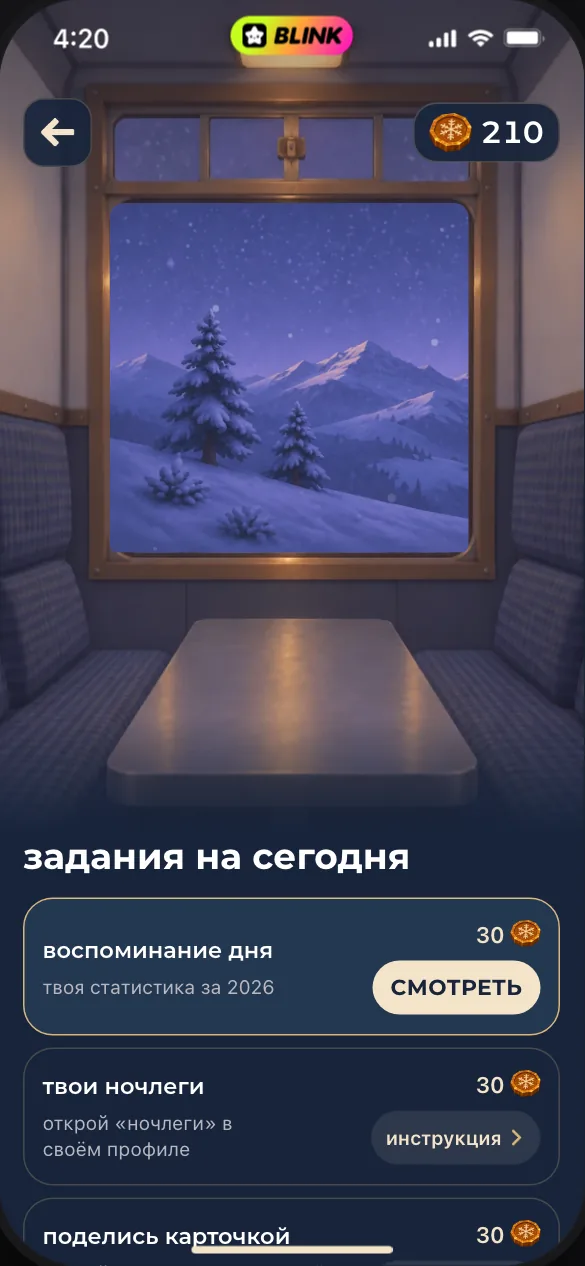
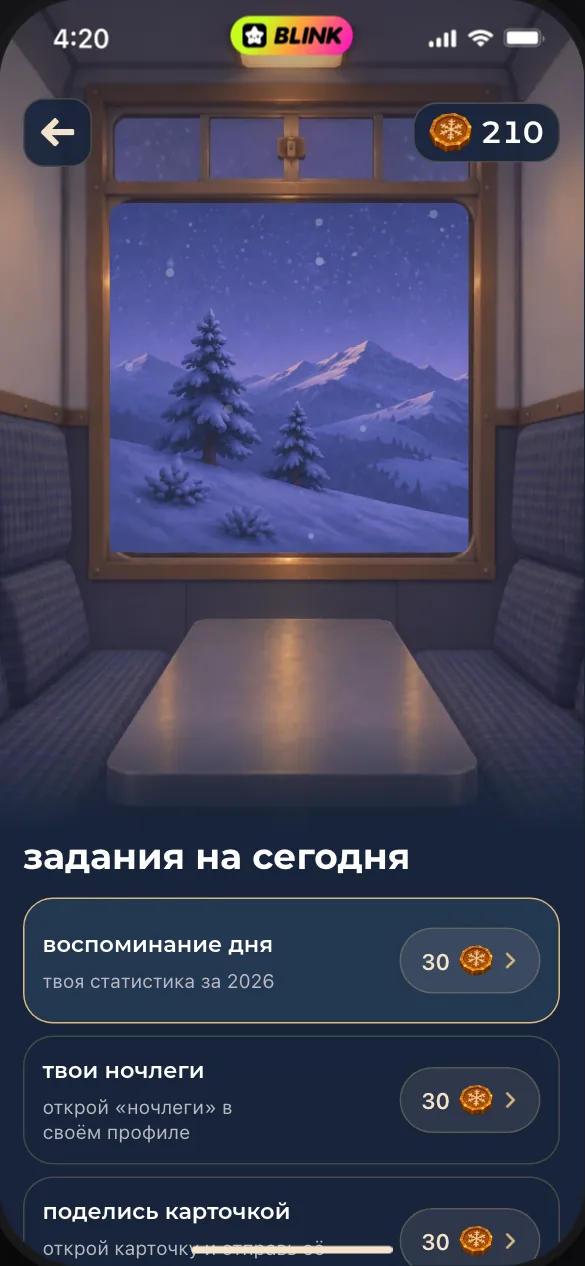
Unify task reward actions and restore claw-machine volume

Changed region(s): [[0.0308, 0.7085, 0.9538, 1.0], [0.9231, 0.9242, 0.9538, 0.955]]

diff --git a/features/advent/advent.js b/features/advent/advent.js
@@ -249,7 +249,7 @@
     const fly = document.createElement("div");
     fly.className = "av-fly__item";
     const idx=D.DAYS.indexOf(day), seen=S.days[idx]?.seen;
-    fly.innerHTML = `<img class="av-fly__obj" src="${J.A(day.prediction ? (seen ? "cookie" : "stocking") : "suitcase")}" alt="">`;
+    fly.innerHTML = day.prediction ? `<img class="av-fly__obj" src="${J.A(seen ? "cookie" : "stocking")}" alt="">` : J.art(day,idx,seen,src);
     const inner = fly.firstElementChild;
     inner.style.width = "100%";
     inner.style.height = "100%";
@@ -469,7 +469,7 @@
     const isToday = i === S.today;
     $("#day-date").textContent = dayName(day);
     screens.day.dataset.phase = day.prediction ? "home" : "train";
-    $("#day-slot").innerHTML = `<img class="av-day__obj" src="${J.A(day.prediction ? (S.days[i].seen ? "cookie" : "stocking") : "suitcase")}" alt="">`;
+    $("#day-slot").innerHTML = day.prediction ? `<img class="av-day__obj" src="${J.A(S.days[i].seen ? "cookie" : "stocking")}" alt="">` : `<div class="av-day__obj">${J.art(day,i,S.days[i].seen,src)}</div>`;
     $("#day-glow").src = objSrc(day);
     const rows = taskRows(day);
     $("#day-body").innerHTML = `
@@ -502,15 +502,16 @@
     const done = state === "claimed", memory = r.key === "memory", seen = S.days[i].seen;
     const available = i === S.today && state !== "missed";
     const status = done ? '<span class="av-task__state" role="img" aria-label="выполнено"><i class="icon icon--check" aria-hidden="true"></i></span>' : "";
-    const action = memory && i <= S.today
-      ? `<button class="button ${seen ? "button--secondary" : "button--primary"} av-task__watch pressable" type="button" data-act="task-memory" data-task-day="${i}" aria-label="${seen ? "посмотреть статистику ещё раз" : "смотреть статистику дня"}">${seen ? "ещё раз" : "смотреть"}</button>`
-      : available && !done ? `<button class="av-task__info pressable" type="button" data-task-help="${r.key}" data-task-day="${i}" aria-label="инструкция: ${r.title}">инструкция<i class="icon icon--chevron" aria-hidden="true"></i></button>`
-      : !done ? '<span class="av-task__expired">день прошёл</span>' : "";
+    const attrs = memory && i <= S.today ? `data-act="task-memory" data-task-day="${i}"`
+      : available ? `data-task-help="${r.key}" data-task-day="${i}"` : '';
+    const label = memory ? `${seen ? 'посмотреть статистику ещё раз' : 'смотреть статистику дня'}, ${r.reward} жетонов${done ? ' уже начислено' : ' за просмотр'}`
+      : `инструкция: ${r.title}, ${r.reward} жетонов${done ? ' уже начислено' : ' за выполнение'}`;
+    const action = attrs ? `<button class="av-task__reward-action pressable" type="button" ${attrs} aria-label="${label}"><span>${r.reward}</span>${flake}<i class="icon icon--chevron" aria-hidden="true"></i></button>`
+      : `<span class="av-task__reward av-task__reward--expired"><span>${r.reward}</span>${flake}</span>`;
+    const description = done ? memory ? 'карточка просмотрена' : 'задание выполнено' : state === 'missed' ? 'день прошёл' : r.description;
     return `<li class="av-task${memory ? " av-task--memory" : ""}${done ? " is-done" : ""}" data-row="${r.key}">
-      <div class="av-task__copy"><span class="av-task__heading"><span class="av-task__text">${r.title}</span>${status}</span>
-        ${!done || memory ? `<span class="av-task__description">${memory && seen ? "карточка просмотрена" : r.description}</span>` : ""}
-      </div>
-      <div class="av-task__side"><span class="av-task__reward"><span>${r.reward}</span>${flake}</span>${action}</div>
+      <div class="av-task__copy"><span class="av-task__heading"><span class="av-task__text">${r.title}</span>${status}</span><span class="av-task__description">${description}</span></div>
+      ${action}
     </li>`;
   }
 
@@ -961,6 +962,10 @@
         resetTo(i);
         break;
       }
+      case "home-tasks-done":
+        resetTo(0); S.days[0].seen = true;
+        ["memory", "task", "share"].forEach(key => completeTask(key, 0, { animate: false, refresh: false }));
+        renderHome(); break;
       case "home-seen": resetTo(0); S.days[0].seen = true; completeTask("memory", 0, { animate: false, refresh: false }); renderHome(); break;
       case "home": resetTo(8); break;
       case "fireside": case "home-late": resetTo(dayIdx("05.01")); break;

diff --git a/features/advent/av-journey.js b/features/advent/av-journey.js
@@ -4,7 +4,12 @@
   const A = name => `art/${name}.webp`;
   const atHome = index => index >= 18;
   const icon = name => `<i class="icon icon--${name}" aria-hidden="true"></i>`;
-  const art = (day, i, seen, getSrc) => `<span class="ex-day-object"><img class="ex-day-object__base" src="${A(atHome(i) ? (seen ? 'cookie' : 'stocking') : 'suitcase')}" alt="">${i === 0 ? '' : `<img class="ex-day-object__topic" src="${getSrc((day.charm || day.hero || day.obj) === 'fan' ? 's:fire' : (day.charm || day.hero || day.obj))}" alt="">`}</span>`;
+  const art = (day, i, seen, getSrc) => {
+    if (atHome(i)) return `<span class="ex-day-object"><img class="ex-day-object__base" src="${A(seen?'cookie':'stocking')}" alt=""><img class="ex-day-object__topic" src="${getSrc(day.charm)}" alt=""></span>`;
+    const topic = day.hero || day.obj;
+    if (topic === 'fan') return `<span class="ex-day-object ex-day-object--fan">${['heart','fire','kiss'].map(name=>`<img class="ex-day-object__sticker" src="${getSrc(`s:${name}`)}" alt="">`).join('')}</span>`;
+    return `<span class="ex-day-object ex-day-object--topic${i===0?' ex-day-object--app':''}"><img class="ex-day-object__base" src="${getSrc(topic)}" alt=""></span>`;
+  };
   const J = window.AV_JOURNEY = { A, atHome, art };
   // 14–31 December: the same date always returns the same view, with no adjacent repeats.
   const route = ['panorama','village','river','viaduct','mountains','lake','city','panorama','mountains','village','lake','river','viaduct','city','mountains','panorama','village','city'];
@@ -53,7 +58,7 @@
     if(decoration){root.innerHTML=`<div class="ex-decoration">${old.wire(ctx)}</div>`;root.querySelectorAll('[data-bulb]').forEach(e=>e.classList.add('is-lit'));return;}
     if(view==='result')return result();
     const empty=!remaining().length,poor=ctx.S.balance<ctx.D.ECONOMY.attempt;
-    root.innerHTML=`<div class="ex-arcade"><div class="ex-machine-wrap"><div class="ex-machine${view==='grabbing'?' is-grabbing':''}" role="img" aria-label="стеклянный аппарат в игровом вагоне" aria-busy="${view==='grabbing'}" style="--grab-drop:32cqh"><img class="ex-machine__car" src="${A('arcade-car')}" alt=""><img class="ex-machine__case" src="${A('claw-frame')}" alt=""><div class="ex-machine__well" aria-hidden="true"></div><div class="ex-machine__depth"><span class="ex-machine__cable" aria-hidden="true"></span><img class="ex-claw" src="${A('claw-hand')}" alt="">${view==='grabbing'?`<span class="ex-caught-prize"><img src="${ctx.src(award.prize.img)}" alt=""></span>`:''}</div><div class="ex-machine__console" aria-hidden="true"><img src="${A('claw-frame')}" alt=""></div></div></div><footer class="ex-arcade__footer"><button class="button button--primary" type="button" data-game="claw-grab" ${view==='grabbing'||empty?'disabled':''}>${view==='grabbing'?'достаём…':empty?'все подарки собраны':poor?'получить жетоны':`схватить <span>${ctx.D.ECONOMY.attempt}<img src="${A('coin')}" alt="жетонов"></span>`}</button><button class="ex-text-link" type="button" data-game="pool">все призы и правила ${icon('chevron')}</button></footer></div>`;
+    root.innerHTML=`<div class="ex-arcade"><div class="ex-machine-wrap"><div class="ex-machine${view==='grabbing'?' is-grabbing':''}" role="img" aria-label="стеклянный аппарат в игровом вагоне" aria-busy="${view==='grabbing'}" style="--grab-drop:32cqh"><img class="ex-machine__case" src="${A('claw-volume')}" alt=""><div class="ex-machine__depth"><span class="ex-machine__cable" aria-hidden="true"></span><img class="ex-claw" src="${A('claw-hand')}" alt="">${view==='grabbing'?`<span class="ex-caught-prize"><img src="${ctx.src(award.prize.img)}" alt=""></span>`:''}</div><div class="ex-machine__console" aria-hidden="true"><img src="${A('claw-volume')}" alt=""></div></div></div><footer class="ex-arcade__footer"><button class="button button--primary" type="button" data-game="claw-grab" ${view==='grabbing'||empty?'disabled':''}>${view==='grabbing'?'достаём…':empty?'все подарки собраны':poor?'получить жетоны':`схватить <span>${ctx.D.ECONOMY.attempt}<img src="${A('coin')}" alt="жетонов"></span>`}</button><button class="ex-text-link" type="button" data-game="pool">все призы и правила ${icon('chevron')}</button></footer></div>`;
   }
   function result(){
     if(!award)return;

diff --git a/features/advent/av-tasks.css b/features/advent/av-tasks.css
@@ -12,29 +12,34 @@
 .av-home .av-calendar {margin-top:var(--space-24);}
 .av[data-phase="home"] .av-calendar {margin-top:0;}
 .av-tasks {display:grid;gap:var(--space-8);padding:0;margin:0;border:0;background:transparent;overflow:visible;}
-.av-task {display:grid;grid-template-columns:minmax(0,1fr) auto;align-items:center;gap:var(--space-12);min-height:92px;padding:var(--space-12);border:1px solid var(--journey-border);border-radius:var(--radius-20);background:var(--journey-glass);}
+.av-task {display:grid;grid-template-columns:minmax(0,1fr) auto;align-items:center;gap:var(--space-12);min-height:84px;padding:var(--space-12);border:1px solid var(--journey-border);border-radius:var(--radius-20);background:var(--journey-glass);}
 .av-task:last-child {border-bottom:1px solid var(--journey-border);}
 .av-task--memory {background:var(--journey-panel);border-color:var(--journey-brass);}
 .av-task__copy {display:flex;flex-direction:column;gap:var(--space-6);min-width:0;}
 .av-task__heading {display:flex;align-items:center;gap:var(--space-6);min-width:0;}
 .av-task__text {font:var(--type-friend-name);}
 .av-task__description {display:block;font:var(--type-note);color:var(--journey-muted);text-wrap:pretty;}
-.av-task__side {display:flex;flex-direction:column;align-items:flex-end;gap:var(--space-8);}
-.av-task__reward {display:flex;align-items:center;gap:var(--space-4);height:20px;font:var(--type-caption);color:var(--journey-cream);white-space:nowrap;}
-.av-task__flake {width:20px;height:20px;object-fit:contain;}
-.av-task__watch {position:relative;width:auto;min-height:36px;height:36px;padding:0 var(--space-12);font:var(--type-button);}
-.av-task__watch::after {content:"";position:absolute;inset:-4px 0;}
-.av-task__info {position:relative;display:flex;align-items:center;justify-content:center;gap:var(--space-4);height:36px;max-width:none;padding:0 var(--space-10);border-radius:var(--radius-pill);background:var(--color-surface-raised);font:var(--type-map-chip-strong);color:var(--journey-cream);}
-.av-task__info::after {inset:-4px 0;}
-.av-task.is-done {min-height:56px;}
-.av-task.is-done.av-task--memory {min-height:92px;}
-.av-task.is-done .av-task__text {color:var(--journey-cream);}
-.av-task.is-done .av-task__reward {color:var(--journey-muted);}
+.av-task__flake {width:22px;height:22px;object-fit:contain;}
+.av-task__reward-action {display:inline-flex;align-items:center;justify-content:center;gap:var(--space-6);min-width:94px;min-height:44px;padding:0 var(--space-10);border:1px solid var(--journey-border);border-radius:var(--radius-pill);background:var(--color-surface-raised);color:var(--journey-cream);font:var(--type-caption);white-space:nowrap;--press-scale:var(--press-scale-button);}
+.av-task__reward-action>.icon {--icon-size:12px;color:var(--journey-brass);}
+.av-task__reward {display:flex;align-items:center;gap:var(--space-4);font:var(--type-caption);white-space:nowrap;}
+.av-task__reward--expired {color:var(--journey-muted);opacity:.6;}
+.av-task.is-done {min-height:84px;background:transparent;}
+.av-task.is-done .av-task__text {color:var(--journey-muted);}
+.av-task.is-done .av-task__reward-action {background:transparent;color:var(--journey-muted);border-color:transparent;}
+.av-task.is-done .av-task__reward-action>.av-task__flake {opacity:.6;}
 .av-task--memory.is-done {border-color:var(--journey-border);}
+.av-home .av-cell {height:128px;}
+.av-home .av-cell__art {width:104px;height:92px;}
+.av-home .av-cell.is-frozen .ex-day-object {opacity:.48;filter:saturate(.65);}
+.ex-day-object--app .ex-day-object__base {width:76%;height:76%;margin:10% auto 0;border-radius:var(--radius-20);}
+.ex-day-object--fan .ex-day-object__sticker {position:absolute;width:62%;height:74%;top:10%;object-fit:contain;}
+.ex-day-object__sticker:nth-child(1) {left:0;transform:rotate(-16deg);}
+.ex-day-object__sticker:nth-child(2) {left:19%;top:0;z-index:1;}
+.ex-day-object__sticker:nth-child(3) {right:0;transform:rotate(16deg);}
 .ex-intro__art {object-position:center 34%;}
 @media(max-height:740px) {
  .av-home-tasks {margin-top:0;}
  .av-home .av-entries {margin-top:var(--space-12);}
- .av-home-tasks .av-task.is-done {min-height:56px;padding-block:var(--space-12);}
- .av-home-tasks .av-task.is-done.av-task--memory {min-height:92px;}
+ .av-home-tasks .av-task.is-done {min-height:84px;padding-block:var(--space-12);}
 }

diff --git a/features/advent/av-machine.css b/features/advent/av-machine.css
@@ -1,12 +1,11 @@
-/* The console extends the cabinet's supplied blue enamel; the lower chamber recedes into shadow. */
-:root {--journey-console-height:max(23cqh,160px);--journey-well-shadow:rgb(0 0 0 / .96);}
+/* One rendered cabinet: the foreground is an exact, unstretched copy of its real projecting ledge. */
+:root {--journey-console-top:68%;}
 .av-game-screen>.av-bar {display:flex;justify-content:space-between;}
-.ex-machine__well {position:absolute;left:3.2%;right:3.2%;top:45%;bottom:var(--journey-console-height);z-index:2;pointer-events:none;background:linear-gradient(transparent,var(--journey-well-shadow) 86%,var(--journey-well-shadow));}
-.ex-machine__depth {position:absolute;inset:0;z-index:3;pointer-events:none;-webkit-mask-image:linear-gradient(#000 58%,transparent 78%);mask-image:linear-gradient(#000 58%,transparent 78%);}
+.ex-machine__depth {position:absolute;inset:0;z-index:3;pointer-events:none;-webkit-mask-image:linear-gradient(#000 64%,transparent 74%);mask-image:linear-gradient(#000 64%,transparent 74%);}
 .ex-machine__cable {position:absolute;top:22%;left:50%;width:3px;height:calc(var(--grab-drop) + var(--space-8));background:var(--journey-brass);box-shadow:1px 0 2px rgb(0 0 0 / .6);transform:translateX(-50%) scaleY(0);transform-origin:50% 0;}
 .ex-machine.is-grabbing .ex-machine__cable {animation:ex-cable 2.6s var(--ease-emphasized) both;}
-.ex-machine__console {position:absolute;left:0;right:0;bottom:0;height:var(--journey-console-height);z-index:4;overflow:hidden;background:var(--journey-panel);box-shadow:0 -1px 0 var(--journey-brass),0 -8px 24px rgb(0 0 0 / .45);pointer-events:none;}
-.ex-machine__console img {position:absolute;bottom:0;left:0;width:100%;height:220cqh;max-width:none;object-fit:fill;}
+.ex-machine__console {position:absolute;left:0;right:0;top:var(--journey-console-top);bottom:0;z-index:4;overflow:hidden;pointer-events:none;}
+.ex-machine__console img {position:absolute;bottom:0;left:0;width:100%;height:100cqh;max-width:none;object-fit:fill;}
 .ex-caught-prize {top:calc(45% + var(--grab-drop));}
 .ex-arcade__footer .ex-text-link {min-height:44px;}
 @keyframes ex-cable {0%,10% {transform:translateX(-50%) scaleY(0);}42%,54% {transform:translateX(-50%) scaleY(1);}82%,100% {transform:translateX(-50%) scaleY(0);}}

diff --git a/features/advent/states.js b/features/advent/states.js
@@ -40,6 +40,7 @@ export const STATES = [
   { id: "intro", group: "calendar", title: "первое знакомство", text: "объяснение только в первый день; после закрытия не повторяется" },
   { id: "home-first", group: "calendar", title: "первый день", text: "14.12: доступен первый день" },
   { id: "home-ready", group: "calendar", title: "купе после онбординга", text: "задания под окном; «смотреть» открывает статистику и начисляет жетоны" },
+  { id: "home-tasks-done", group: "calendar", title: "все задания выполнены", text: "галочки и начисленные награды; статистика и инструкции доступны повторно" },
   { id: "home-seen", group: "calendar", title: "факт просмотрен", text: "задание выполнено; «ещё раз» без новой награды" },
   { id: "home", group: "calendar", title: "конец декабря", text: "22.12: точки – непросмотренные дни, даты под предметами" },
   { id: "landscape:15.12", group: "calendar", title: "деревня за окном", text: "15.12: тёплые окна среди заснеженных домов" },

diff --git a/tools/smoke_advent_journey.py b/tools/smoke_advent_journey.py
@@ -21,7 +21,7 @@ def check_feature(browser,port,errors,check):
     check('onboarding does not return on a later visit',not page.locator('#sheet-intro.is-open').count() and js('AV.S.introSeen'))
     check('main screen has no title, stop counter, diary or repeated introduction',page.locator('#home-title').evaluate('e=>e.classList.contains("visually-hidden")') and not page.locator('#screen-home .ex-daily__chapter,#screen-home img[src*="journal"]').count() and 'каждый день' not in page.locator('#home-today').inner_text())
     check('scenery has no postcard or hidden window gesture',not page.locator('.ex-postcard,.ex-memory-window').count() and not page.locator('#home-today').is_visible() and page.locator('#home-scene').get_attribute('src').endswith('train-window.webp'))
-    check('viewing statistics is the first explicit task',page.locator('#home-tasks [data-row]').first.get_attribute('data-row')=='memory' and page.locator('#home-tasks [data-act="task-memory"]').inner_text()=='СМОТРЕТЬ' and not js('AV.S.days[0].seen'))
+    check('viewing statistics is the first explicit task',page.locator('#home-tasks [data-row]').first.get_attribute('data-row')=='memory' and page.locator('#home-tasks [data-act="task-memory"]').inner_text().strip()=='30' and page.locator('#home-tasks [data-act="task-memory"] img').count()==1 and page.locator('#home-tasks [data-act="task-memory"] .icon--chevron').count()==1 and not js('AV.S.days[0].seen'))
     check('table and benches remain above the task panel, calendar follows prize entries',page.locator('#home-tasks').evaluate('e=>{const c=document.querySelector(".ex-cabin").getBoundingClientRect(),r=e.getBoundingClientRect();return r.top>=c.top+c.height*.74&&r.top<innerHeight*.72;}') and page.locator('#home-entries').bounding_box()['y']>page.locator('#home-tasks').bounding_box()['y'] and page.locator('.av-calendar').bounding_box()['y']>page.locator('#home-entries').bounding_box()['y'])
     check('interface blends into the train with a non-interactive gradient',page.locator('.ex-home-content').evaluate('e=>getComputedStyle(e,"::before").backgroundImage.includes("linear-gradient")&&getComputedStyle(e,"::before").pointerEvents==="none"'))
     js('AV.completeTask("memory")')
@@ -61,10 +61,12 @@ def check_feature(browser,port,errors,check):
     check('short task instructions retain punctuation rule',page.locator('#home-tasks .av-task__description').evaluate_all('els=>els.every(e=>!e.textContent.endsWith("."))'))
     page.locator('[data-go="game"].av-entry').click();page.wait_for_timeout(350)
     check('ready claw has no prize choices or winners feed',not page.locator('.ex-machine-prize,.ex-feed,.ex-caught-prize').count() and page.locator('[data-game="claw-grab"]').inner_text().startswith('СХВАТИТЬ'))
-    check('glass chamber fills the phone and shows a separate arcade carriage',page.locator('.ex-machine__case').get_attribute('src').endswith('claw-frame.webp') and page.locator('.ex-machine__car').get_attribute('src').endswith('arcade-car.webp') and page.locator('.ex-machine').evaluate('e=>{const r=e.getBoundingClientRect(),a=document.querySelector("#app").getBoundingClientRect();return Math.abs(r.width-a.width)<1&&Math.abs(r.height-a.height)<1;}'))
+    check('one coherent rendered cabinet fills the phone',page.locator('.ex-machine__case').get_attribute('src').endswith('claw-volume.webp') and not page.locator('.ex-machine__car,.ex-machine__well').count() and page.locator('.ex-machine').evaluate('e=>{const r=e.getBoundingClientRect(),a=document.querySelector("#app").getBoundingClientRect();return Math.abs(r.width-a.width)<1&&Math.abs(r.height-a.height)<1;}'))
     check('claw title is visually hidden and both controls sit on the cabinet console',page.locator('#game-title').evaluate('e=>e.classList.contains("visually-hidden")') and page.locator('.ex-machine__console').evaluate('e=>{const p=e.getBoundingClientRect();return [...document.querySelectorAll(".ex-arcade__footer button")].every(b=>{const r=b.getBoundingClientRect();return r.top>=p.top&&r.bottom<=p.bottom&&r.left>=p.left&&r.right<=p.right;});}'))
+    page.wait_for_function('[...document.querySelectorAll(".ex-machine img")].every(i=>i.complete&&i.naturalWidth>0)')
+    check('foreground ledge is pixel-aligned to the whole cabinet without stretching',page.locator('.ex-machine__console img').evaluate('e=>{const a=e.getBoundingClientRect(),b=document.querySelector(".ex-machine__case").getBoundingClientRect();return e.getAttribute("src")===document.querySelector(".ex-machine__case").getAttribute("src")&&["x","y","width","height"].every(k=>Math.abs(a[k]-b[k])<1); }'))
     chamber=Image.open(BytesIO(page.locator('.ex-machine').screenshot())).convert('RGB')
-    dark=chamber.getpixel((round(chamber.width*.25),round(chamber.height*.73)))
+    dark=chamber.getpixel((round(chamber.width*.25),round(chamber.height*.65)))
     check('the lower chamber is dark and the claw fades into its depth',sum(dark)/3<55 and page.locator('.ex-machine__depth').evaluate('e=>getComputedStyle(e).maskImage.includes("linear-gradient")'))
     page.wait_for_timeout(250)
     check('waiting does not charge or choose a prize',js('AV.S.balance')==90 and js('AV_GAME.state().view')=='ready' and js('AV_GAME.state().award') is None)
@@ -114,6 +116,7 @@ def check_feature(browser,port,errors,check):
     check('raffle transfer reserves tickets once for the selected prize',js('AV.S.tickets')==27 and js(f'AV.S.draw[{target!r}]')==mine+3 and js('AV.S.events.filter(e=>e.name==="raffle_tickets").length')==1)
     page.wait_for_timeout(1400)
     js('AV.resetTo(17)')
+    check('December stops have large topic illustrations and no repeated suitcase shell',not page.locator('#calendar img[src*="suitcase"],#calendar .ex-day-object__topic').count() and page.locator('#calendar .ex-day-object').evaluate_all('els=>els.every(e=>{const a=e.getBoundingClientRect(),images=[...e.querySelectorAll("img")];return images.every(i=>{const r=i.getBoundingClientRect();return r.width>=a.width*.5&&r.height>=a.height*.7;});})'))
     check('December 31 still has active claw and raffle entrances',js('document.querySelector("#app").dataset.phase')=='train' and page.locator('.av-entry[data-go="game"]').count()==1 and page.locator('.av-entry[data-go="draw"]').count()==1)
     page.locator('[data-panel="next"]').click()
     check('January 1 changes to the fireplace and eleven January dates',js('AV.S.today')==18 and js('document.querySelector("#app").dataset.phase')=='home' and page.locator('#home-scene').get_attribute('src')=='art/living-room.webp' and page.locator('#calendar [data-day]').count()==11)
@@ -150,11 +153,16 @@ def check_feature(browser,port,errors,check):
     check('closed arcade cannot charge even via a stale action',page.locator('.ex-closed').is_visible() and js('[AV.S.balance,AV.S.taken.length,AV.S.tickets]')==b)
     js("AV.showState('draw-closed')");b=js('AV.S.tickets');js('AV_GAME.click({dataset:{draw:"put"}},AV.gameCtx())')
     check('closed raffle exposes history and rejects stale ticket actions',page.locator('.ex-draw-closed').is_visible() and not page.locator('[data-draw="put"]').count() and js('AV.S.tickets')==b)
+    js("AV.showState('home-tasks-done')")
+    check('completed tasks retain navigation with visible checks and no second reward',page.locator('#home-tasks .av-task.is-done').count()==3 and page.locator('#home-tasks .av-task__state').count()==3 and page.locator('#home-tasks .av-task__reward-action').count()==3 and js('AV.S.balance')==120)
+    page.locator('#home-tasks [data-task-help="task"]').click()
+    check('completed reward button opens its instruction and confirms the credited reward',page.locator('#task-help-reward').inner_text().endswith('уже начислено') and js('AV.S.balance')==120)
+    page.locator('#task-help-action').click();page.wait_for_timeout(400)
     for w,h in [(375,667),(390,844),(430,932)]:
         page.set_viewport_size({'width':w,'height':h})
         # The external preview panel can scroll the outer page; phone layout starts at the viewport top.
         js('window.scrollTo(0,0)')
-        for state in ['intro','home-first','home-ready','home-seen','home','arrival','home-late','claw-first','claw-prize','claw-poor','claw-empty','draw','draw-none','claw-closed','draw-closed','stat:01.01','cracked:01.01']:
+        for state in ['intro','home-first','home-ready','home-seen','home-tasks-done','home','arrival','home-late','claw-first','claw-prize','claw-poor','claw-empty','draw','draw-none','claw-closed','draw-closed','stat:01.01','cracked:01.01']:
             js(f'AV.showState({state!r})');page.wait_for_timeout(420 if state=='intro' else 80)
             if state=='intro':
                 page.locator('#sheet-intro').evaluate('e=>Promise.all(e.getAnimations().map(a=>a.finished))')
@@ -162,7 +170,7 @@ def check_feature(browser,port,errors,check):
             if js('AV.current()')=='game':
                 fit=fit and page.locator('#game').evaluate('e=>e.scrollHeight<=e.clientHeight+1') and page.locator('#game button.button').evaluate('e=>{const r=e.getBoundingClientRect();return r.bottom<=innerHeight&&r.top>=0;}')
                 if page.locator('.ex-machine__console').count():
-                    fit=fit and page.locator('.ex-machine__console').evaluate('e=>{const p=e.getBoundingClientRect();return [...document.querySelectorAll(".ex-arcade__footer button")].every(b=>{const r=b.getBoundingClientRect();return r.top>=p.top&&r.bottom<=p.bottom;});}')
+                    fit=fit and page.locator('.ex-machine__console').evaluate('e=>{const p=e.getBoundingClientRect();return [...document.querySelectorAll(".ex-arcade__footer button")].every(b=>{const r=b.getBoundingClientRect();return r.top>=p.top+(p.height*.375)&&r.bottom<=p.bottom;});}')
             if js('AV.current()')=='draw' and not state.endswith('closed'):
                 fit=fit and page.locator('.avd-cta').evaluate('e=>e.getBoundingClientRect().bottom<=innerHeight')
             if state.startswith('home') or state=='arrival':

diff --git a/tools/build_assets.py b/tools/build_assets.py
@@ -1456,7 +1456,7 @@ def build_advent_journey() -> None:
     # Scene layers derived with imagegen from the supplied cabin and cabinet.
     landscapes = [f"winter-{name}" for name in ("mountains", "lake", "village", "river", "viaduct", "city")]
     scene_layers = [("winter-panorama", (2172, 724))] + [(name, (2172, 724)) for name in landscapes]
-    scene_layers += [(name, (1024, 1536)) for name in ("claw-window", "claw-glass", "arcade-car", "claw-frame")]
+    scene_layers += [(name, (1024, 1536)) for name in ("claw-window", "claw-glass", "arcade-car", "claw-frame", "claw-volume")]
     for name, size in scene_layers:
         master = out / f"{name}-master.png"
         if master.exists():

diff --git a/features/advent/NEW-YEAR.md b/features/advent/NEW-YEAR.md
@@ -18,13 +18,13 @@
 
 Нижний интерфейс начинается на 66% высоты телефона, ниже столика: окно, обе скамьи и поверхность стола остаются видимыми. Он плавно переходит из прозрачного слоя в заливку navy, без жёсткого шва. Порядок: задания → хваталка и розыгрыш → остановки маршрута в самом низу. Исходная сцена высотой 86cqh сохраняет пропорции; интерфейс накладывается на её нижнюю часть с отрицательным отступом 20cqh. Январская комната и предсказание сохраняют прежнее расположение, задания скрыты.
 
-Первое задание — «воспоминание дня», описание «твоя статистика за 2026» и видимая кнопка «смотреть». Открытие сегодняшней декабрьской карточки автоматически начисляет 30 жетонов ровно один раз, независимо от входа через задание, отдельный день или шеринг. Повторный просмотр остаётся доступным через «ещё раз» и не даёт новой награды. Просмотр старого дня и январского предсказания не начисляет жетоны. Внешнее событие не может выдать награду до реального просмотра.
+Первое задание — «воспоминание дня», описание «твоя статистика за 2026» и одна кнопка «30 · жетон · стрелка». Открытие сегодняшней декабрьской карточки автоматически начисляет 30 жетонов ровно один раз, независимо от входа через задание, отдельный день или шеринг. Повторный просмотр остаётся доступным через ту же кнопку награды и не даёт новой награды. Просмотр старого дня и январского предсказания не начисляет жетоны. Внешнее событие не может выдать награду до реального просмотра.
 
-У задания выполненного просмотра есть галочка, подпись «карточка просмотрена» и вторичный CTA. Остальные ячейки содержат название, краткое описание, награду справа и отдельную кнопку «инструкция». Открытие инструкции не завершает задание. Ежедневный вход начисляется автоматически и не занимает отдельную ячейку на главной. Поделиться карточкой и действие дня остаются отдельными заданиями. В интерфейсе нет кнопки «забрать». Возврат со статистики сохраняет прокрутку; клавиатурный фокус возвращается к просмотру.
+У задания выполненного просмотра есть галочка, подпись «карточка просмотрена» и ту же компактную кнопку навигации. У всех заданий справа одна кнопка: число, монета, стрелка; отдельные «смотреть», «ещё раз» и «инструкция» не показываются. Она открывает статистику для воспоминания и инструкцию для остальных заданий. Выполненная строка приглушена, имеет галочку и подпись «карточка просмотрена» либо «задание выполнено»; повторное открытие награду не начисляет. Открытие инструкции не завершает задание. Ежедневный вход начисляется автоматически и не занимает отдельную ячейку на главной. Поделиться карточкой и действие дня остаются отдельными заданиями. В интерфейсе нет кнопки «забрать». Возврат со статистики сохраняет прокрутку; клавиатурный фокус возвращается к просмотру.
 
 Каждый декабрьский день получает определённый пейзаж: прежний лес и шесть новых панорам — деревня, река, виадук, горы, озеро, праздничный город. Соседние даты всегда различаются; повторное открытие той же даты сохраняет вид. Всего семь мест на 18 дней, точка начала панорамы дополнительно сдвигается по дате. Назначение задано в `AV_JOURNEY.landscape(S.today)`, а не случайным выбором при рендере. Пейзаж показан только в большой оконной секции. Два зеркально стыкованных вида и первый повтор обеспечивают непрерывный 72-секундный проход без резкого шва. При reduced motion движение остановлено. В январе остаётся комната с камином.
 
-Календарь содержит 18 декабрьских остановок или 11 январских вечеров. Даты под предметами, просмотренные дни отмечены галочкой, непросмотренные доступные — точкой. Будущие даты закрыты. Доступный день открывает отдельный экран. Январский вход «твой 2026» показывает архив декабря, переключатель возвращает январь. Тематические предметы всех 29 дней различаются.
+Календарь содержит 18 декабрьских остановок или 11 январских вечеров. Даты под предметами, просмотренные дни отмечены галочкой, непросмотренные доступные — точкой. Будущие даты закрыты. Доступный день открывает отдельный экран. Январский вход «твой 2026» показывает архив декабря, переключатель возвращает январь. В декабре крупный предмет соответствует теме факта: иконка blink, валенок для шагов, сани для пути, Земля для стран, дом для ночлегов, глаза для просмотров, письмо для сообщений, микрофон для голосовых и другие. Общего чемодана и мелкой наклейки на нём нет. В перелёте и отдельном экране дня используется тот же предмет. Январские предметы сохранены. Тематические предметы всех 29 дней различаются.
 
 Задания: название и награда сверху, описание и текстовый вход «инструкция» снизу. У выполненных строк галочка, нет «забрать». Вход начисляется автоматически; задание и шеринг — по подтверждённым событиям приложения. Инструкция сама награду не выдаёт.
 
@@ -32,9 +32,11 @@
 
 ## Стеклянная хваталка
 
-Полноэкранный крупный план: металлическая рама и клешня, полупрозрачные стеклянные стенки, сквозь которые виден отдельный игровой вагон того же экспресса: центральный проход, ряды аркадных автоматов и зимние окна, без купейных сидений и столика. Нижней тумбы, джойстика и ножек в кадре нет. Синяя фронтальная панель корпуса занимает нижние `max(23cqh,160px)`; кнопка «схватить» и текстовый вход в правила целиком находятся на ней. Материал панели — увеличенная нижняя полоса исходной рамы, без новой растровой правки. Видимый заголовок «хваталка» убран, доступное имя экрана сохранено. Лента чужих выигрышей и три предварительных приза удалены.
+Полноэкранный крупный план одного цельного рендера `claw-volume.webp`: корпус, потолок камеры, боковые стенки, стеклянные отражения, игровой вагон за стеклом и нижняя консоль имеют общую перспективу и освещение. Корпус сохраняет синий металл и бронзу предоставленной графики. У консоли видна наклонная верхняя плоскость, толстый закруглённый бортик, боковые скосы и контактная тень. Передняя грань начинается около 80% высоты; кнопка «схватить» и вход в правила размещены на ней. Видимого заголовка «хваталка» нет, доступное имя экрана сохранено.
 
-Одна попытка стоит 30 жетонов. Нажатие «схватить» выбирает случайный подарок из **всей** оставшейся коллекции, без тайминга и выбора позиции. До нажатия приз не назначен и не показан. Нижняя часть стеклянной камеры уходит в почти чёрную тень, горизонтального пола и пустых отсеков не видно. Клешня опускается на 32cqh; трос вытягивается из верхнего крепления, сама клешня исчезает в тени и поднимает оттуда подарок; через 2.6 секунды открыт экран получения с настоящим призом и билетом.
+Плоская растянутая синяя полоса и отдельный CSS-прямоугольник затемнения удалены. Перед клешнёй показана точная нижняя часть того же рендера, начиная с 68% высоты. Она совпадает с основным изображением по масштабу и положению, поэтому клешня уходит за настоящий бортик консоли. Прежние `claw-frame` и `arcade-car` сохранены как исходные референсы; в активной сцене они не накладываются друг на друга.
+
+Одна попытка стоит 30 жетонов. Нажатие «схватить» выбирает случайный подарок из **всей** оставшейся коллекции, без тайминга и выбора позиции. До нажатия приз не назначен и не показан. За передним бортиком виден затенённый глубокий колодец без горизонтального пола и пустых отсеков. Клешня опускается на 32cqh; трос вытягивается из верхнего крепления, сама клешня исчезает в тени и поднимает оттуда подарок; через 2.6 секунды открыт экран получения с настоящим призом и билетом.
 
 Перед анимацией атомарно резервируются уникальный приз, билет и списание. Повторный ввод не создаёт вторую выдачу. Выход во время захвата сохраняет результат; возвращение открывает его без оплаты. Сброс отменяет прежний таймер. В reduced motion анимация пропускается, результат появляется через 120 мс.
 
@@ -60,14 +62,22 @@
 
 План композиции: существующие navy / brass / cream / hearth и Montserrat / SF. Главная — вид из купе → плавный переход в задания → два призовых входа → остановки маршрута. Хваталка — вид сквозь стекло внутрь вагона. Предсказание — изолированный предмет на размытом фоне, затем светлая бумажка.
 
-План и новые размеры: перекрытие сцены `--journey-interface-overlap:20cqh`, высота прозрачного перехода `--journey-interface-fade:80px`. Ячейки заданий — 92px, padding12, gap8 и radius20 из существующей сетки; выполненное обычное задание — 56px. Первая ячейка использует существующие panel / brass и компактную cream-кнопку. Текст — текущие роли friend-name / note / caption / button; награда всегда «число → жетон». Визуальная кнопка 36px имеет область касания 44px. Дополнительные иллюстрации заданиям не нужны. Градиент используется только для запрошенного перехода между сценой и нижним интерфейсом.
+План и новые размеры: перекрытие сцены `--journey-interface-overlap:20cqh`, высота прозрачного перехода `--journey-interface-fade:80px`. Ячейки заданий — 84px для доступного и выполненного состояния, padding12, gap8 и radius20 из существующей сетки. Кнопка награды — min-width94px и height44px, существующий полупрозрачный surface / border. Первая ячейка использует panel / brass; после выполнения выделение снимается. Текст — текущие роли friend-name / note / caption / button; награда всегда «число → жетон». Кнопка имеет видимую область касания44px, без вынесенных рядом дублирующих чисел. Дополнительные иллюстрации заданиям не нужны. Градиент используется только для запрошенного перехода между сценой и нижним интерфейсом.
 
-06.11, корректировка по последнему ревью: просмотрены нативная версия 390×844 и рендеры @2x главной с видимым столиком, новых пейзажей и камеры хваталки. Оценка композиции — 8/10: интерьер читается как купе, первое задание остаётся на первом экране, управление хваталкой лежит на корпусе, тень скрывает дно. Награда отделена от текста, карточки выровнены по одной сетке, остановки завершают страницу. Вариант с протиранием окна отклонён пользователем и удалён из активного кода; окно не открывает статистику. Январская кнопка предсказания остаётся яркой, её не перекрывает переход.
+06.11, корректировка по последнему ревью: просмотрены нативная версия 390×844 и рендеры @2x главной с видимым столиком, новых пейзажей и камеры хваталки. Оценка композиции — 8/10: интерьер читается как купе, первое задание остаётся на первом экране, управление хваталкой лежит на объёмной передней грани, затенённый колодец уходит за бортик. Награда отделена от текста, карточки выровнены по одной сетке, остановки завершают страницу. Вариант с протиранием окна отклонён пользователем и удалён из активного кода; окно не открывает статистику. Январская кнопка предсказания остаётся яркой, её не перекрывает переход.
 
-Оригиналы `НГБЛИНК/` не изменяются. `build_advent_journey()` экспортирует производные WebP в `art/`. `arcade-car-master.png` / `arcade-car.webp` — новый самостоятельный игровой вагон, сгенерированный встроенным imagegen по стилю предоставленных интерьеров. `claw-frame-master.png` / `claw-frame.webp` — отдельная рама: у стеклянных панелей реальная прозрачность, через неё виден фон игрового вагона. Версия `claw-glass` с купе сохранена как промежуточный исходник, в продукте не используется. Промпт и происхождение — `IMAGE-PROMPTS.md`. Прежняя витрина сохранена как исходник. Целое и разломанное печенья повторно используют `renders/fortune-cookie.webp` и `renders/fortune-cookie-broken.webp` с альфа-каналом.
+Оригиналы `НГБЛИНК/` не изменяются. `build_advent_journey()` экспортирует производные WebP в `art/`. `arcade-car-master.png` / `arcade-car.webp` — новый самостоятельный игровой вагон, сгенерированный встроенным imagegen по стилю предоставленных интерьеров. `claw-volume-master.png` / `claw-volume.webp` — активный цельный рендер корпуса и окружающего вагона. Подготовлен встроенным imagegen из `claw-frame`, `arcade-car` и исходного автомата; промпт — `CLAW-VOLUME-PROMPT.json`. `claw-frame-master.png` / `claw-frame.webp` — сохранённая отдельная рама: у стеклянных панелей реальная прозрачность, через неё виден фон игрового вагона. Версия `claw-glass` с купе сохранена как промежуточный исходник, в продукте не используется. Промпт и происхождение — `IMAGE-PROMPTS.md`. Прежняя витрина сохранена как исходник. Целое и разломанное печенья повторно используют `renders/fortune-cookie.webp` и `renders/fortune-cookie-broken.webp` с альфа-каналом.
 
 ## Проверка и интеграция
 
 `python3 tools/smoke.py advent` проверяет однократный онбординг, явный вход из задания, автоматическую награду за просмотр и защиту от повторов, порядок секций, компоновку ячеек и просмотренные состояния, назначение семи пейзажей на все 18 дней, отсутствие соседних повторов, загрузку панорам, положение кнопок на корпусе и темноту нижней камеры, все 29 дней, автоматическое начисление заданий, весь пул случайных уникальных призов, повторный ввод, уход во время выдачи, этапы печенья, раннее закрытие, билетный розыгрыш, январские ограничения и 375/390/430. Перед публикацией — полный `smoke.py`. Галерею пересобирает `tools/shoot_advent.py`.
 
 `window.dispatchEvent(new CustomEvent('advent:task-completed', {detail:{day:8,key:'task'}}))` — подтверждённое событие приложения. Принимается только текущий декабрьский день и известный ключ; повтор не выдаёт награду. Карта, чат, серверная дата, сохранение игровых данных и настоящая выдача остаются точками интеграции. Пульт воспроизводит эти состояния; данные прототипа, кроме флага онбординга, живут в памяти страницы. Просмотр — новая строка экономики `memory:30`; сервер должен атомарно сохранять её вместе с просмотренным состоянием дня.
+
+## Ревью объёма корпуса, 06.11
+
+Нативный экран390×844 и рендеры @2x375×667/390×844 просмотрены отдельно от функциональных тестов. Оценка композиции8/10: видимая верхняя плоскость и толщина консоли, непрерывные боковины, единые свет и перспектива, клешня перекрывается бортиком при спуске. Проверки геометрии подтверждают совпадение основного рендера и переднего слоя по всем координатам, положение кнопок ниже верхней границы передней грани и отсутствие растяжения220cqh. Автоматические проверки не оценивают художественный объём; для него сохранён визуальный рендер.
+
+## Задания и предметы остановок, 06.11
+
+Просмотрены доступные и выполненные задания на нативном390×844 и рендерах @2x: одна правая кнопка с наградой и стрелкой, описание слева, галочка завершения, одинаковая высота ячейки без скачка. Состояние `home-tasks-done` показывает все три завершённые строки. Остановки показывают крупные иллюстрации темы дня из имеющегося набора, без общего контейнера-чемодана.

diff --git a/features/advent/README.md b/features/advent/README.md
@@ -4,7 +4,7 @@
 
 Текущий сценарий, экономика, границы интеграции и проверка — [NEW-YEAR.md](NEW-YEAR.md).
 
-Композиция изнутри: с первого дня — купе с меняющимися по дням видами за окном: лес, деревня, река, виадук, горы, озеро и праздничный город. Просмотр статистики — первое задание с кнопкой «смотреть» и автоматической наградой 30 жетонов. После просмотра — галочка и «ещё раз», без повторного начисления. Задания расположены ниже столика, чтобы были видны обе скамьи и интерьер, заливка интерфейса плавно переходит в поезд; затем идут хваталка и розыгрыш, в самом низу — остановки. На окне нет скрытого действия. Объяснение ежедневных фактов показано только в однократном онбординге первого дня. У хваталки стеклянные стенки с отдельным игровым вагоном за ними, затемнённая глубина вместо видимого дна и управление на нижней панели корпуса; одно нажатие выдаёт случайный уникальный подарок. В январе комната размывается, печенье появляется и ломается, из него выходит бумажка с предсказанием. Слои сцены и их происхождение — [IMAGE-PROMPTS.md](IMAGE-PROMPTS.md).
+Композиция изнутри: с первого дня — купе с меняющимися по дням видами за окном: лес, деревня, река, виадук, горы, озеро и праздничный город. Просмотр статистики — первое задание с кнопкой «30 · жетон · стрелка» и автоматической наградой 30 жетонов. После просмотра — приглушённая строка с галочкой; та же кнопка позволяет открыть карточку повторно, без нового начисления. У остальных заданий кнопка награды открывает инструкцию. Остановки теперь показывают крупный предмет по теме каждого дня, без чемоданов. Задания расположены ниже столика, чтобы были видны обе скамьи и интерьер, заливка интерфейса плавно переходит в поезд; затем идут хваталка и розыгрыш, в самом низу — остановки. На окне нет скрытого действия. Объяснение ежедневных фактов показано только в однократном онбординге первого дня. У хваталки цельный объёмный корпус с общей перспективой вагона за стеклом, наклонная консоль с толстым бортиком, тёмный колодец и управление на передней грани; одно нажатие выдаёт случайный уникальный подарок. В январе комната размывается, печенье появляется и ломается, из него выходит бумажка с предсказанием. Слои сцены и их происхождение — [IMAGE-PROMPTS.md](IMAGE-PROMPTS.md).
 
 - [Онбординг](https://herftpok.github.io/blink-prototype/features/advent/?state=intro)
 - [Купе после знакомства](https://herftpok.github.io/blink-prototype/features/advent/?state=home-ready)

diff --git a/features/advent/IMAGE-PROMPTS.md b/features/advent/IMAGE-PROMPTS.md
@@ -109,3 +109,11 @@ Use case: background-extraction. Asset type: transparent foreground frame/glass 
 Назначение по датам фиксировано в `AV_JOURNEY.landscape()`: 14.12 лес → 15.12 деревня → 16.12 река → 17.12 виадук → 18.12 горы → 19.12 озеро → 20.12 город → 21.12 лес → 22.12 горы → 23.12 деревня → 24.12 озеро → 25.12 река → 26.12 виадук → 27.12 город → 28.12 горы → 29.12 лес → 30.12 деревня → 31.12 город. Повторный визит в тот же день сохраняет пейзаж; соседние дни не повторяются.
 
 Панорамы просмотрены отдельно и через реальную рамку купе на рендерах @2x. На главной интерфейс опущен ниже столика. Корпус хваталки в этой итерации растрово не менялся: нижняя синяя часть существующей `claw-frame.webp` служит материалом увеличенной фронтальной панели, нейтральная тень и маска глубины скрывают прежний пол, трос и захват анимируются отдельно.
+
+## 06.11.2026 — цельный объёмный корпус хваталки
+
+Режим: встроенный imagegen, без CLI/API fallback. Новый RGB-мастер `art/claw-volume-master.png`1024×1536, рабочий `art/claw-volume.webp`. Оригиналы и предыдущие рамы сохранены. Полный финальный запрос и исходное имя генерации — [CLAW-VOLUME-PROMPT.json](CLAW-VOLUME-PROMPT.json).
+
+Референсы: `claw-frame-master.png` задаёт верхнюю геометрию, `arcade-car-master.png` — вагон за стеклом, `machine-empty.webp` — физическую толщину корпуса и наклонную консоль. Сцена перерисована целиком с общей камерой и освещением. Нижняя консоль имеет видимую верхнюю плоскость, толстую бронзовую кромку, боковые скосы и тени. За ней — глубокий затенённый колодец без видимого пола. Сам захват и UI не запечены.
+
+Передний слой — точная нижняя часть нового рендера с68% высоты, без растяжения: рука и приз уходят за объёмный бортик. Кнопки расположены на передней грани ниже80%. Прежняя увеличенная синяя полоса удалена.
